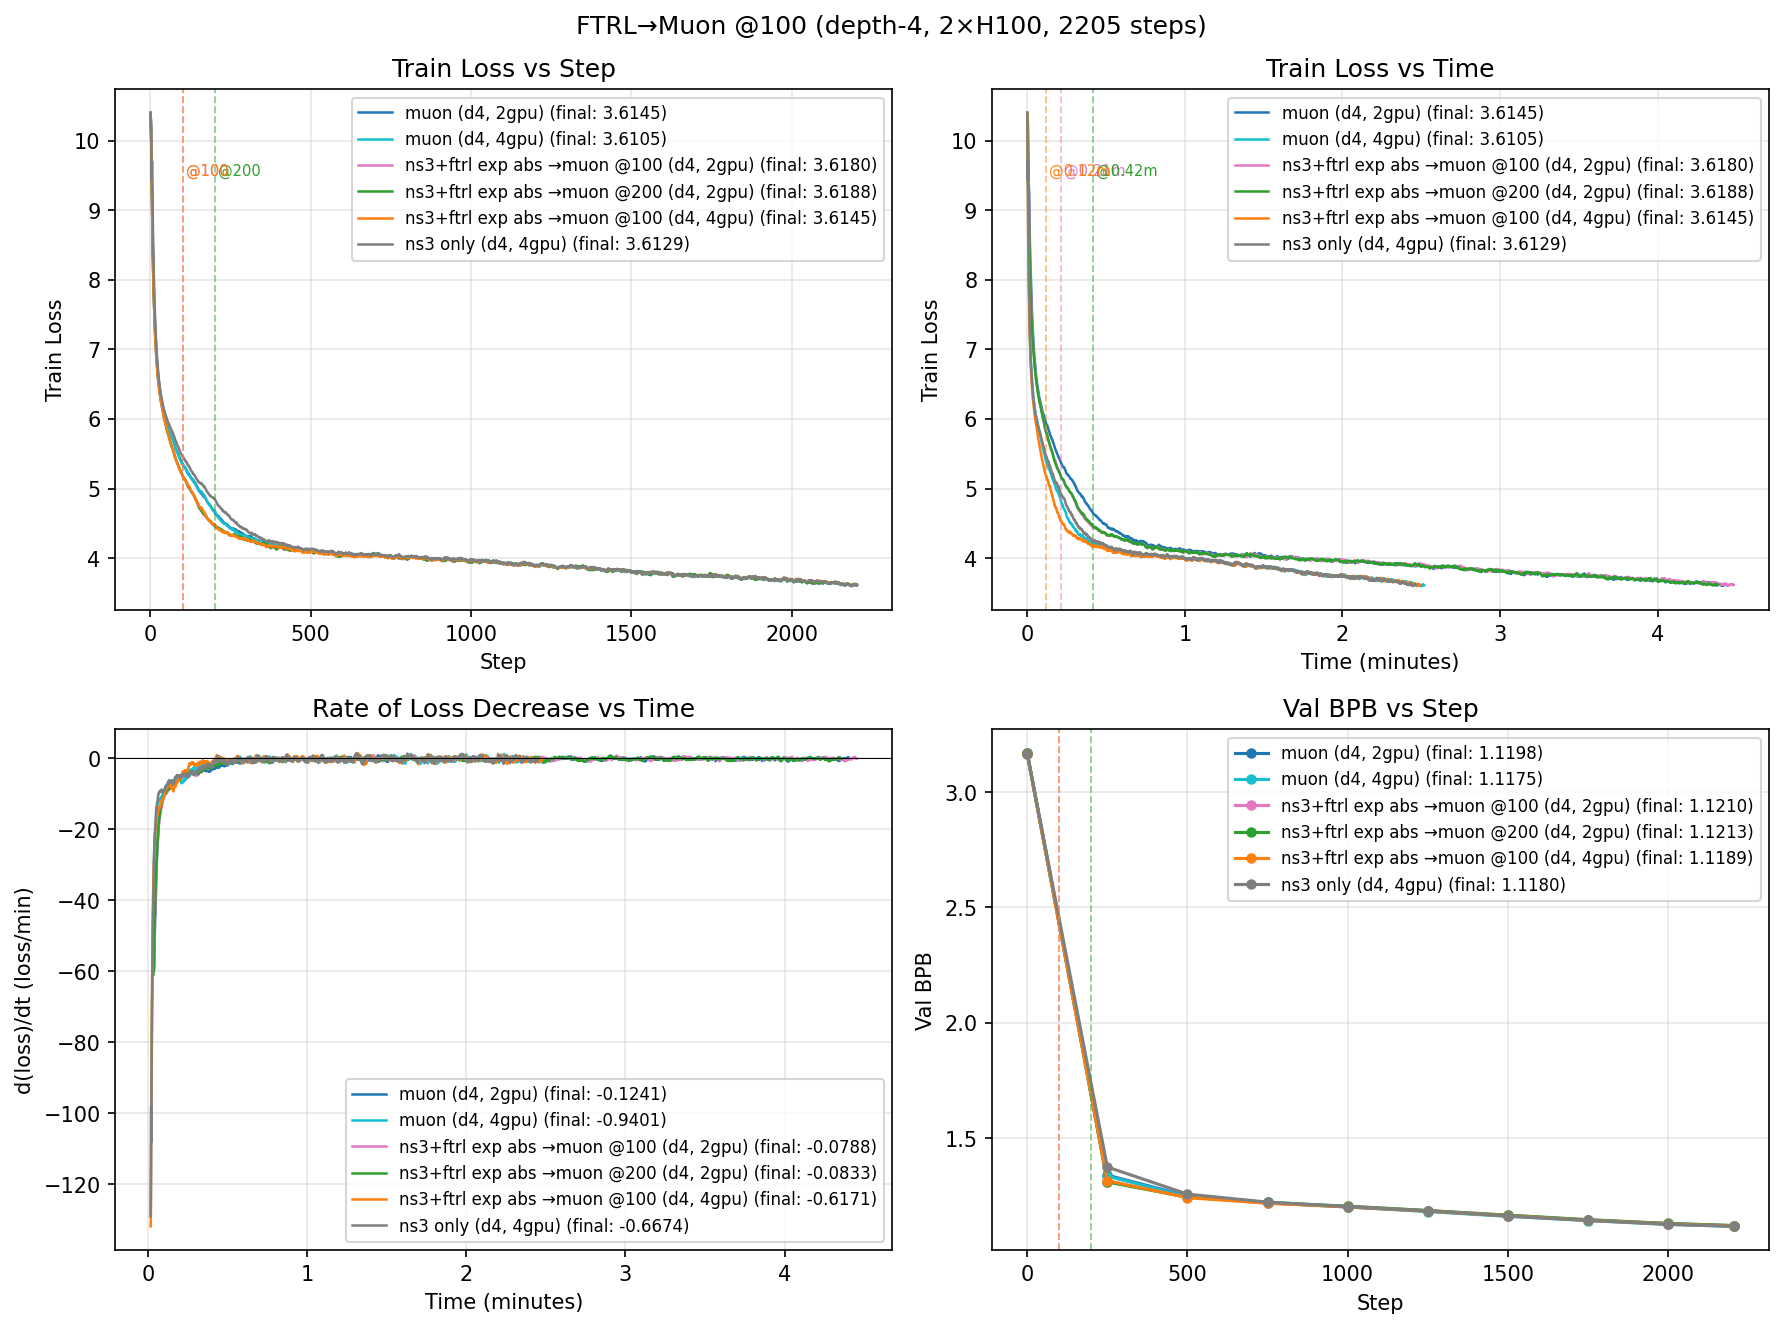
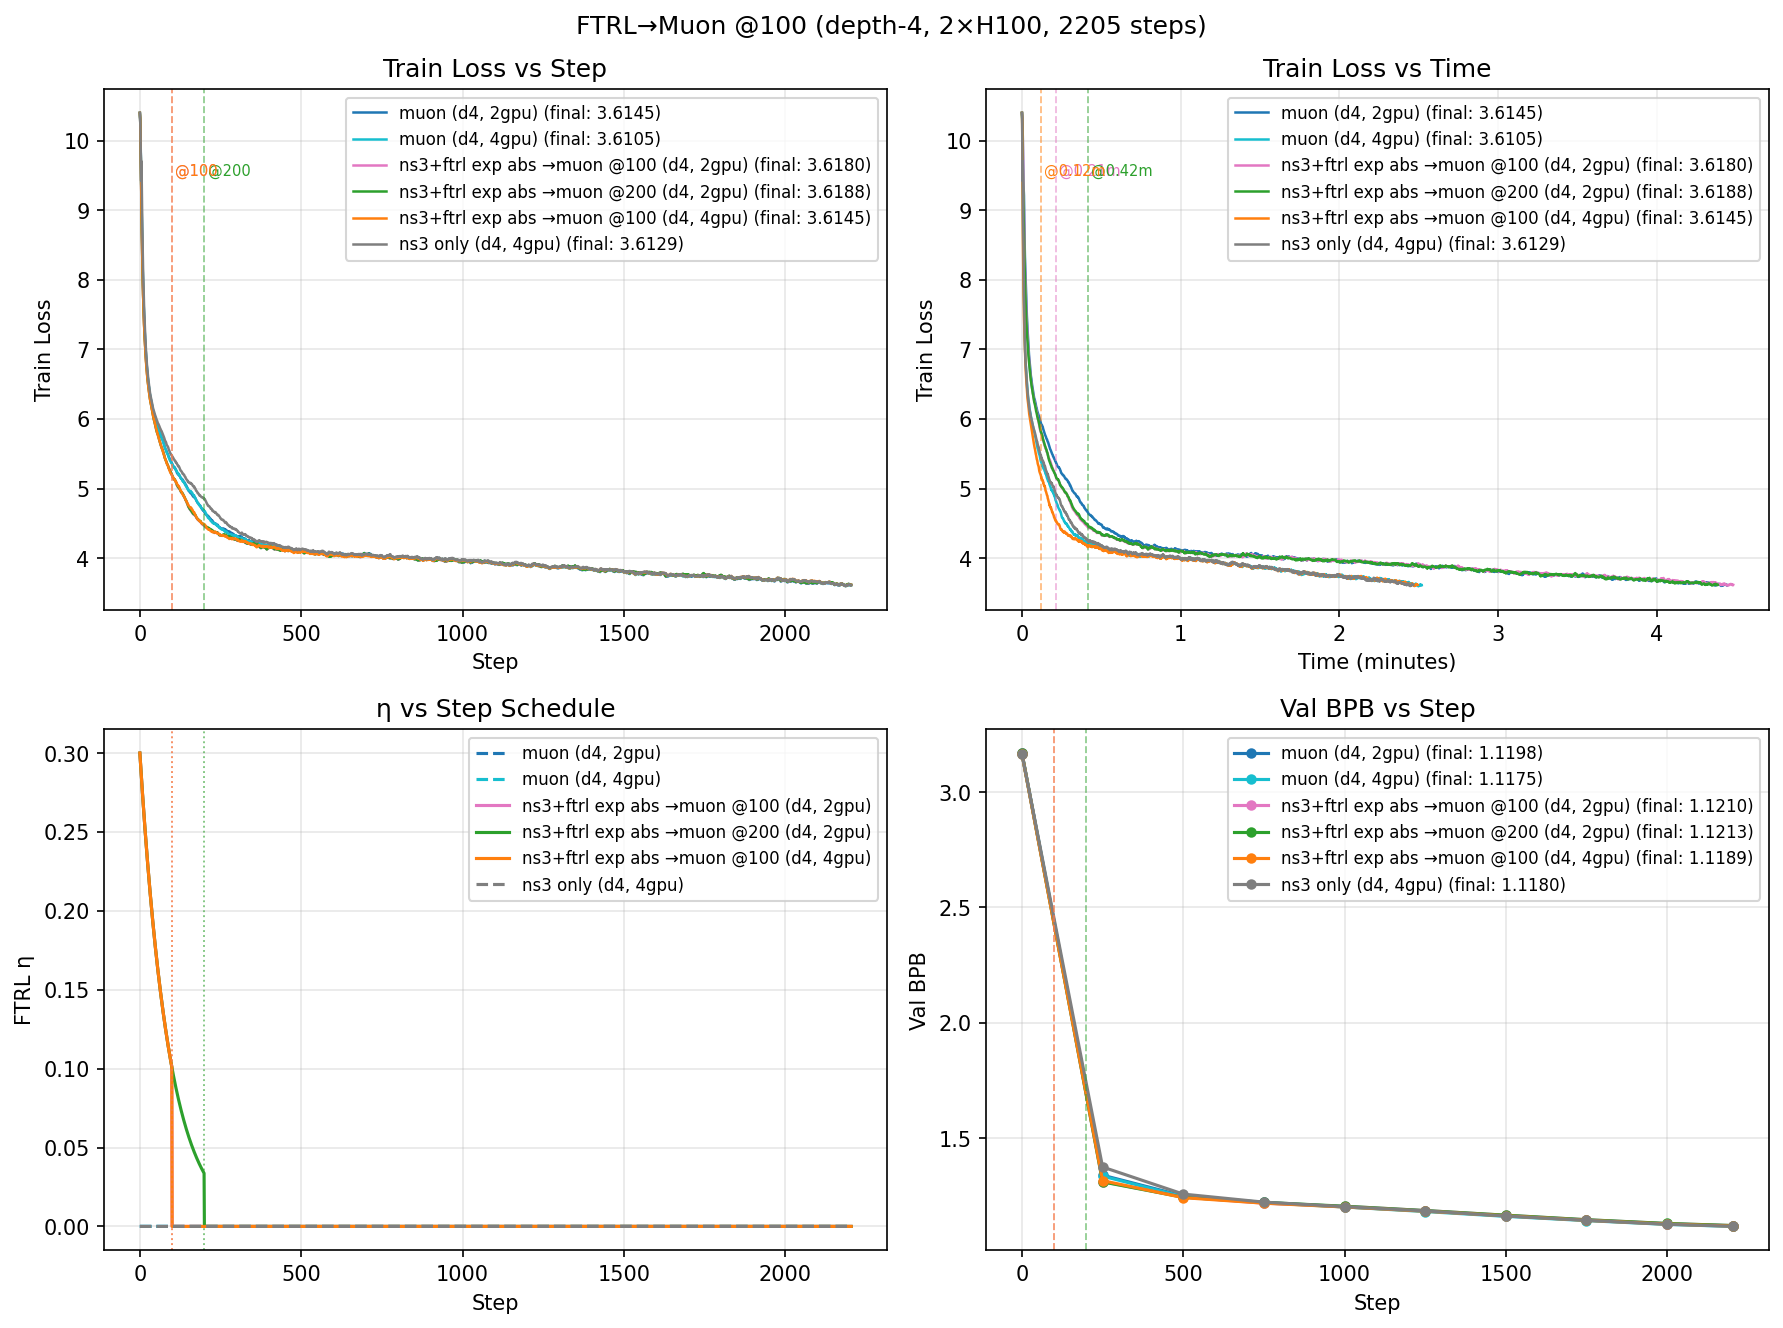
thur m

diff --git a/scripts/plot_d4_runs_2gpu.py b/scripts/plot_d4_runs_2gpu.py
@@ -1,5 +1,5 @@
 """
-Plot d4 runs: train loss vs step, train loss vs time, eta vs step schedule, val BPB vs step.
+Plot d4 2gpu runs: train loss vs step, train loss vs time, eta vs step schedule, val BPB vs step.
 """
 import json
 import math
@@ -11,10 +11,6 @@ TRAIN_LOGS = {
         "/Users/medha/Desktop/muon_local/nanochat/my_runs/train_log_muon_d4.jsonl",
         "#1f77b4",
     ),
-    "muon (d4, 4gpu)": (
-        "/Users/medha/Desktop/muon_local/nanochat/my_runs/train_log_muon_d4_4gpu.jsonl",
-        "#17becf",
-    ),
     "ns3+ftrl exp abs →muon @100 (d4, 2gpu)": (
         "/Users/medha/Desktop/muon_local/nanochat/my_runs/train_log_ftrl_then_muon_s100_d4.jsonl",
         "#e377c2",
@@ -23,23 +19,11 @@ TRAIN_LOGS = {
         "/Users/medha/Desktop/muon_local/nanochat/my_runs/train_log_ftrl_then_muon_s200_d4.jsonl",
         "#2ca02c",
     ),
-    "ns3+ftrl exp abs →muon @100 (d4, 4gpu)": (
-        "/Users/medha/Desktop/muon_local/nanochat/my_runs/train_log_ftrl_then_muon_s100_d4_4gpu.jsonl",
-        "#ff7f0e",
-    ),
-    "ns3 only (d4, 4gpu)": (
-        "/Users/medha/Desktop/muon_local/nanochat/my_runs/train_log_ns3_d4_4gpu.jsonl",
-        "#7f7f7f",
-    ),
 }
 VAL_LOGS = {
     "muon (d4, 2gpu)": (
         "/Users/medha/Desktop/muon_local/nanochat/my_runs/val_log_muon_d4.jsonl",
         "#1f77b4",
-    ),
-    "muon (d4, 4gpu)": (
-        "/Users/medha/Desktop/muon_local/nanochat/my_runs/val_log_muon_d4_4gpu.jsonl",
-        "#17becf",
     ),
     "ns3+ftrl exp abs →muon @100 (d4, 2gpu)": (
         "/Users/medha/Desktop/muon_local/nanochat/my_runs/val_log_ftrl_then_muon_s100_d4.jsonl",
@@ -49,21 +33,12 @@ VAL_LOGS = {
         "/Users/medha/Desktop/muon_local/nanochat/my_runs/val_log_ftrl_then_muon_s200_d4.jsonl",
         "#2ca02c",
     ),
-    "ns3+ftrl exp abs →muon @100 (d4, 4gpu)": (
-        "/Users/medha/Desktop/muon_local/nanochat/my_runs/val_log_ftrl_then_muon_s100_d4_4gpu.jsonl",
-        "#ff7f0e",
-    ),
-    "ns3 only (d4, 4gpu)": (
-        "/Users/medha/Desktop/muon_local/nanochat/my_runs/val_log_ns3_d4_4gpu.jsonl",
-        "#7f7f7f",
-    ),
 }
 SMOOTH = 30
 
 def load_train_log(path):
     steps, losses, times = [], [], []
     cumtime = 0.0
-    # First pass: compute median dt to detect compile-stall outliers
     dts = []
     with open(path) as f:
         for line in f:
@@ -77,7 +52,6 @@ def load_train_log(path):
             d = json.loads(line)
             if "_config" in d:
                 continue
-            # skip compile-stall steps entirely (dt > 10x median)
             if d["step"] > 0 and d["dt"] >= 10 * median_dt:
                 continue
             steps.append(d["step"])
@@ -105,19 +79,16 @@ def smooth(x, w):
 SWITCH_STEPS = {
     "ns3+ftrl exp abs →muon @100 (d4, 2gpu)": 100,
     "ns3+ftrl exp abs →muon @200 (d4, 2gpu)": 200,
-    "ns3+ftrl exp abs →muon @100 (d4, 4gpu)": 100,
 }
 
 _ETA_LAMBDA = math.log(3.0) / 100.0
 
 def get_eta_schedule(name, num_steps):
-    """Returns (steps, etas) for the eta vs step schedule of an optimizer."""
     steps = np.arange(num_steps + 1)
     switch = SWITCH_STEPS.get(name)
     if switch is not None:
         etas = np.where(steps < switch, 0.3 * np.exp(-_ETA_LAMBDA * steps), 0.0)
     else:
-        # pure muon: eta is always 0
         etas = np.zeros(len(steps))
     return steps, etas
 
@@ -185,9 +156,9 @@ ax.set_title("Val BPB vs Step")
 ax.legend(fontsize=8)
 ax.grid(True, alpha=0.3)
 
-plt.suptitle("FTRL→Muon @100 (depth-4, 2×H100, 2205 steps)", fontsize=12)
+plt.suptitle("FTRL→Muon (depth-4, 2×H100, 2205 steps)", fontsize=12)
 plt.tight_layout()
-out = "/Users/medha/Desktop/muon_local/nanochat/plots/headline/d4_ftrl_then_muon.png"
+out = "/Users/medha/Desktop/muon_local/nanochat/plots/headline/d4_ftrl_then_muon_2gpu.png"
 plt.savefig(out, dpi=150, bbox_inches="tight")
 plt.show()
 print(f"Saved to {out}")

diff --git a/scripts/plot_d4_runs_4gpu.py b/scripts/plot_d4_runs_4gpu.py
@@ -1,5 +1,5 @@
 """
-Plot d4 runs: train loss vs step, train loss vs time, eta vs step schedule, val BPB vs step.
+Plot d4 4gpu runs: train loss vs step, train loss vs time, eta vs step schedule, val BPB vs step.
 """
 import json
 import math
@@ -7,21 +7,9 @@ import numpy as np
 import matplotlib.pyplot as plt
 
 TRAIN_LOGS = {
-    "muon (d4, 2gpu)": (
-        "/Users/medha/Desktop/muon_local/nanochat/my_runs/train_log_muon_d4.jsonl",
-        "#1f77b4",
-    ),
     "muon (d4, 4gpu)": (
         "/Users/medha/Desktop/muon_local/nanochat/my_runs/train_log_muon_d4_4gpu.jsonl",
         "#17becf",
-    ),
-    "ns3+ftrl exp abs →muon @100 (d4, 2gpu)": (
-        "/Users/medha/Desktop/muon_local/nanochat/my_runs/train_log_ftrl_then_muon_s100_d4.jsonl",
-        "#e377c2",
-    ),
-    "ns3+ftrl exp abs →muon @200 (d4, 2gpu)": (
-        "/Users/medha/Desktop/muon_local/nanochat/my_runs/train_log_ftrl_then_muon_s200_d4.jsonl",
-        "#2ca02c",
     ),
     "ns3+ftrl exp abs →muon @100 (d4, 4gpu)": (
         "/Users/medha/Desktop/muon_local/nanochat/my_runs/train_log_ftrl_then_muon_s100_d4_4gpu.jsonl",
@@ -33,21 +21,9 @@ TRAIN_LOGS = {
     ),
 }
 VAL_LOGS = {
-    "muon (d4, 2gpu)": (
-        "/Users/medha/Desktop/muon_local/nanochat/my_runs/val_log_muon_d4.jsonl",
-        "#1f77b4",
-    ),
     "muon (d4, 4gpu)": (
         "/Users/medha/Desktop/muon_local/nanochat/my_runs/val_log_muon_d4_4gpu.jsonl",
         "#17becf",
-    ),
-    "ns3+ftrl exp abs →muon @100 (d4, 2gpu)": (
-        "/Users/medha/Desktop/muon_local/nanochat/my_runs/val_log_ftrl_then_muon_s100_d4.jsonl",
-        "#e377c2",
-    ),
-    "ns3+ftrl exp abs →muon @200 (d4, 2gpu)": (
-        "/Users/medha/Desktop/muon_local/nanochat/my_runs/val_log_ftrl_then_muon_s200_d4.jsonl",
-        "#2ca02c",
     ),
     "ns3+ftrl exp abs →muon @100 (d4, 4gpu)": (
         "/Users/medha/Desktop/muon_local/nanochat/my_runs/val_log_ftrl_then_muon_s100_d4_4gpu.jsonl",
@@ -63,7 +39,6 @@ SMOOTH = 30
 def load_train_log(path):
     steps, losses, times = [], [], []
     cumtime = 0.0
-    # First pass: compute median dt to detect compile-stall outliers
     dts = []
     with open(path) as f:
         for line in f:
@@ -77,7 +52,6 @@ def load_train_log(path):
             d = json.loads(line)
             if "_config" in d:
                 continue
-            # skip compile-stall steps entirely (dt > 10x median)
             if d["step"] > 0 and d["dt"] >= 10 * median_dt:
                 continue
             steps.append(d["step"])
@@ -103,21 +77,17 @@ def smooth(x, w):
     return np.convolve(x, np.ones(w) / w, mode='valid')
 
 SWITCH_STEPS = {
-    "ns3+ftrl exp abs →muon @100 (d4, 2gpu)": 100,
-    "ns3+ftrl exp abs →muon @200 (d4, 2gpu)": 200,
     "ns3+ftrl exp abs →muon @100 (d4, 4gpu)": 100,
 }
 
 _ETA_LAMBDA = math.log(3.0) / 100.0
 
 def get_eta_schedule(name, num_steps):
-    """Returns (steps, etas) for the eta vs step schedule of an optimizer."""
     steps = np.arange(num_steps + 1)
     switch = SWITCH_STEPS.get(name)
     if switch is not None:
         etas = np.where(steps < switch, 0.3 * np.exp(-_ETA_LAMBDA * steps), 0.0)
     else:
-        # pure muon: eta is always 0
         etas = np.zeros(len(steps))
     return steps, etas
 
@@ -185,9 +155,9 @@ ax.set_title("Val BPB vs Step")
 ax.legend(fontsize=8)
 ax.grid(True, alpha=0.3)
 
-plt.suptitle("FTRL→Muon @100 (depth-4, 2×H100, 2205 steps)", fontsize=12)
+plt.suptitle("FTRL→Muon (depth-4, 4×H100, 2205 steps)", fontsize=12)
 plt.tight_layout()
-out = "/Users/medha/Desktop/muon_local/nanochat/plots/headline/d4_ftrl_then_muon.png"
+out = "/Users/medha/Desktop/muon_local/nanochat/plots/headline/d4_ftrl_then_muon_4gpu.png"
 plt.savefig(out, dpi=150, bbox_inches="tight")
 plt.show()
 print(f"Saved to {out}")

diff --git a/scripts/plot_cluster_runs_4gpu.py b/scripts/plot_cluster_runs_4gpu.py
@@ -203,7 +203,7 @@ table_data = []
 for short_label, data_key, val_key, opt_tf, total_pf in _4GPU_ROWS:
     saved_pct = (1.0 - opt_tf / muon_opt_total) * 100.0
     final_train = f"{data[data_key][1][-1]:.4f}" if data_key in data else "—"
-    best_val = f"{min(val_data[val_key][1]):.4f}" if val_key in val_data else "—"
+    best_val = f"{int(min(val_data[val_key][1]) * 1000) / 1000:.3f}" if val_key in val_data else "—"
     table_data.append([short_label, f"{opt_tf:.0f}", f"{total_pf:.3f}", f"{saved_pct:.1f}%", final_train, best_val])
 
 tbl = ax.table(
@@ -228,6 +228,6 @@ ax.set_title("FLOPs Comparison (d12, 4gpu runs)", fontsize=9, pad=4)
 
 plt.suptitle("Muon vs NS3+FTRL variants (depth-12, 4×H100, 2205 steps) — 4gpu runs", fontsize=12)
 plt.tight_layout()
-plt.savefig("/Users/medha/Desktop/muon_local/nanochat/plots/cluster_muon_vs_ns3ftrl_4gpu.png", dpi=150, bbox_inches="tight")
+plt.savefig("/Users/medha/Desktop/muon_local/nanochat/plots/headline/cluster_muon_vs_ns3ftrl_4gpu.png", dpi=150, bbox_inches="tight")
 plt.show()
-print("Saved to plots/cluster_muon_vs_ns3ftrl_4gpu.png")
+print("Saved to plots/headline/cluster_muon_vs_ns3ftrl_4gpu.png")

diff --git a/scripts/plot_cluster_runs_2gpu.py b/scripts/plot_cluster_runs_2gpu.py
@@ -237,7 +237,7 @@ ax.set_title("FLOPs Comparison (d12, 2gpu runs)", fontsize=9, pad=4)
 
 plt.suptitle("Muon vs NS3+FTRL variants (depth-12, 2×H100, 2205 steps) — 2gpu runs", fontsize=12)
 plt.tight_layout()
-plt.savefig("/Users/medha/Desktop/muon_local/nanochat/plots/cluster_muon_vs_ns3ftrl_2gpu.png", dpi=150, bbox_inches="tight")
+plt.savefig("/Users/medha/Desktop/muon_local/nanochat/plots/headline/cluster_muon_vs_ns3ftrl_2gpu.png", dpi=150, bbox_inches="tight")
 plt.show()
 print(f"Crossover: step {crossover_step}, time {crossover_time:.1f}m")
-print("Saved to plots/cluster_muon_vs_ns3ftrl_2gpu.png")
+print("Saved to plots/headline/cluster_muon_vs_ns3ftrl_2gpu.png")

diff --git a/scripts/plot_cluster_runs.py b/scripts/plot_cluster_runs.py
@@ -301,7 +301,7 @@ ax.set_title("FLOPs Comparison (d12, 4gpu runs)", fontsize=9, pad=4)
 
 plt.suptitle("Muon vs NS3+FTRL variants (depth-12, 2×H100, 2205 steps)", fontsize=12)
 plt.tight_layout()
-plt.savefig("/Users/medha/Desktop/muon_local/nanochat/plots/cluster_muon_vs_ns3ftrl.png", dpi=150, bbox_inches="tight")
+plt.savefig("/Users/medha/Desktop/muon_local/nanochat/plots/headline/cluster_muon_vs_ns3ftrl.png", dpi=150, bbox_inches="tight")
 plt.show()
 print(f"Crossover: step {crossover_step}, time {crossover_time:.1f}m")
-print("Saved to plots/cluster_muon_vs_ns3ftrl.png")
+print("Saved to plots/headline/cluster_muon_vs_ns3ftrl.png")

diff --git a/scripts/plot_medium_runs.py b/scripts/plot_medium_runs.py
@@ -136,6 +136,6 @@ axes[1, 2].axis("off")
 
 plt.suptitle("Depth-20 runs (2×H100, 4777 steps total) — partial results", fontsize=12)
 plt.tight_layout()
-plt.savefig("/Users/medha/Desktop/muon_local/nanochat/plots/cluster_muon_vs_ns3ftrl_medium.png", dpi=150, bbox_inches="tight")
+plt.savefig("/Users/medha/Desktop/muon_local/nanochat/plots/headline/cluster_muon_vs_ns3ftrl_medium.png", dpi=150, bbox_inches="tight")
 plt.show()
-print("Saved to plots/cluster_muon_vs_ns3ftrl_medium.png")
+print("Saved to plots/headline/cluster_muon_vs_ns3ftrl_medium.png")
